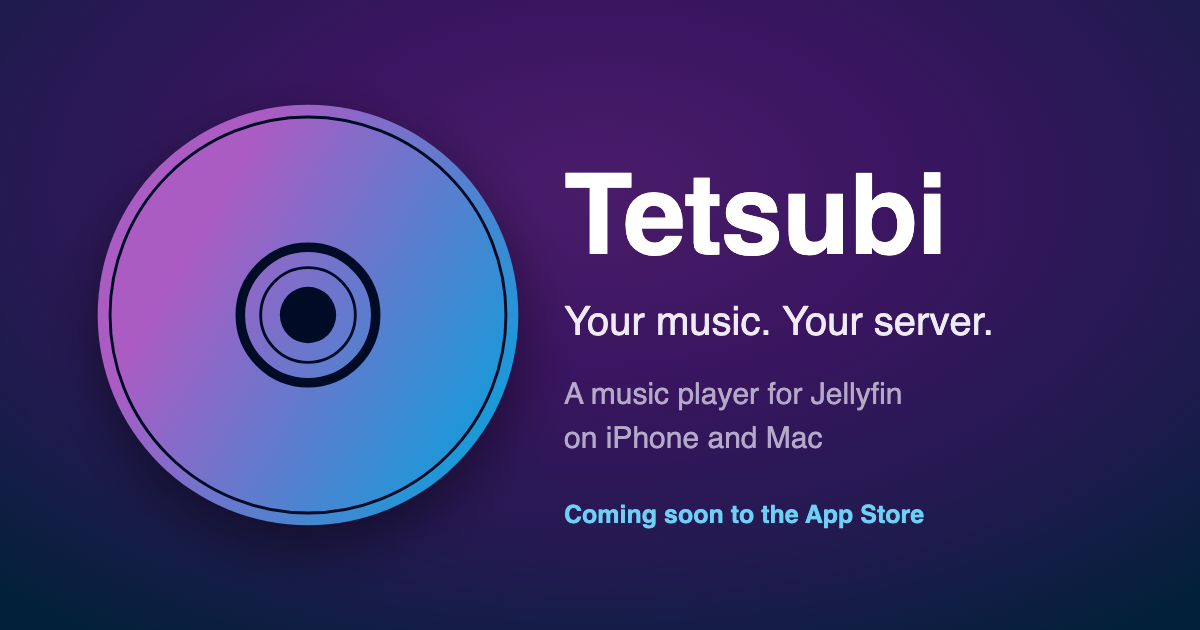
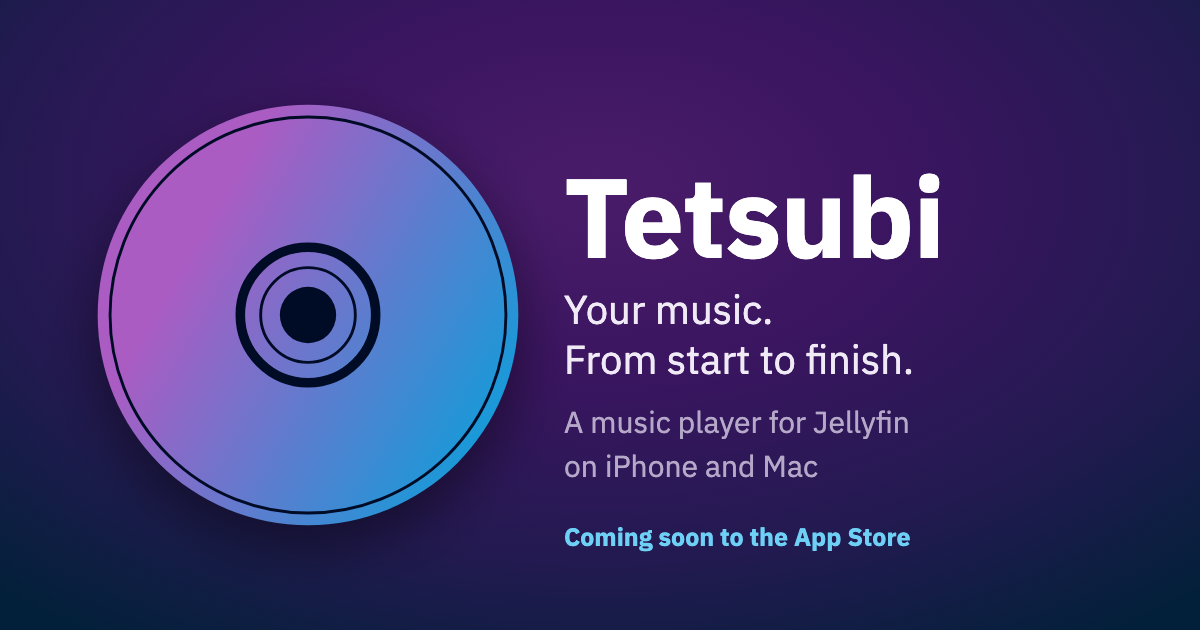
Social card: update tagline to match the home page

Changed region(s): [[0.4625, 0.4524, 0.8325, 0.754], [0.4625, 0.2714, 0.8017, 0.4222], [0.4625, 0.7841, 0.7708, 0.8746]]

diff --git a/index.html b/index.html
@@ -18,7 +18,7 @@
   <meta property="og:image" content="https://tetsubi.app/assets/social-card.png">
   <meta property="og:image:width" content="1200">
   <meta property="og:image:height" content="630">
-  <meta property="og:image:alt" content="Tetsubi: your music, your server. A music player for Jellyfin on iPhone and Mac.">
+  <meta property="og:image:alt" content="Tetsubi: Your music. From start to finish. A music player for Jellyfin on iPhone and Mac.">
   <meta name="twitter:card" content="summary_large_image">
   <meta name="twitter:title" content="Tetsubi — music player for Jellyfin on iPhone and Mac">
   <meta name="twitter:description" content="Tetsubi is a music player for iPhone and Mac that plays your own music library from your Jellyfin server. Album-first, offline downloads, gapless playback, no accounts and no tracking.">

diff --git a/privacy.html b/privacy.html
@@ -18,7 +18,7 @@
   <meta property="og:image" content="https://tetsubi.app/assets/social-card.png">
   <meta property="og:image:width" content="1200">
   <meta property="og:image:height" content="630">
-  <meta property="og:image:alt" content="Tetsubi: your music, your server. A music player for Jellyfin on iPhone and Mac.">
+  <meta property="og:image:alt" content="Tetsubi: Your music. From start to finish. A music player for Jellyfin on iPhone and Mac.">
   <meta name="twitter:card" content="summary_large_image">
   <meta name="twitter:title" content="Privacy policy — Tetsubi, the Jellyfin music player">
   <meta name="twitter:description" content="Tetsubi's privacy policy. Tetsubi collects no personal data: it talks only to your own Jellyfin server, plus MusicBrainz, Wikidata and Wikipedia for artist information.">

diff --git a/support.html b/support.html
@@ -18,7 +18,7 @@
   <meta property="og:image" content="https://tetsubi.app/assets/social-card.png">
   <meta property="og:image:width" content="1200">
   <meta property="og:image:height" content="630">
-  <meta property="og:image:alt" content="Tetsubi: your music, your server. A music player for Jellyfin on iPhone and Mac.">
+  <meta property="og:image:alt" content="Tetsubi: Your music. From start to finish. A music player for Jellyfin on iPhone and Mac.">
   <meta name="twitter:card" content="summary_large_image">
   <meta name="twitter:title" content="Support — Tetsubi, the Jellyfin music player">
   <meta name="twitter:description" content="Help with Tetsubi, the Jellyfin music player for iPhone and Mac: signing in with Quick Connect, downloads, listening away from home, mobile data and how to get in touch.">
